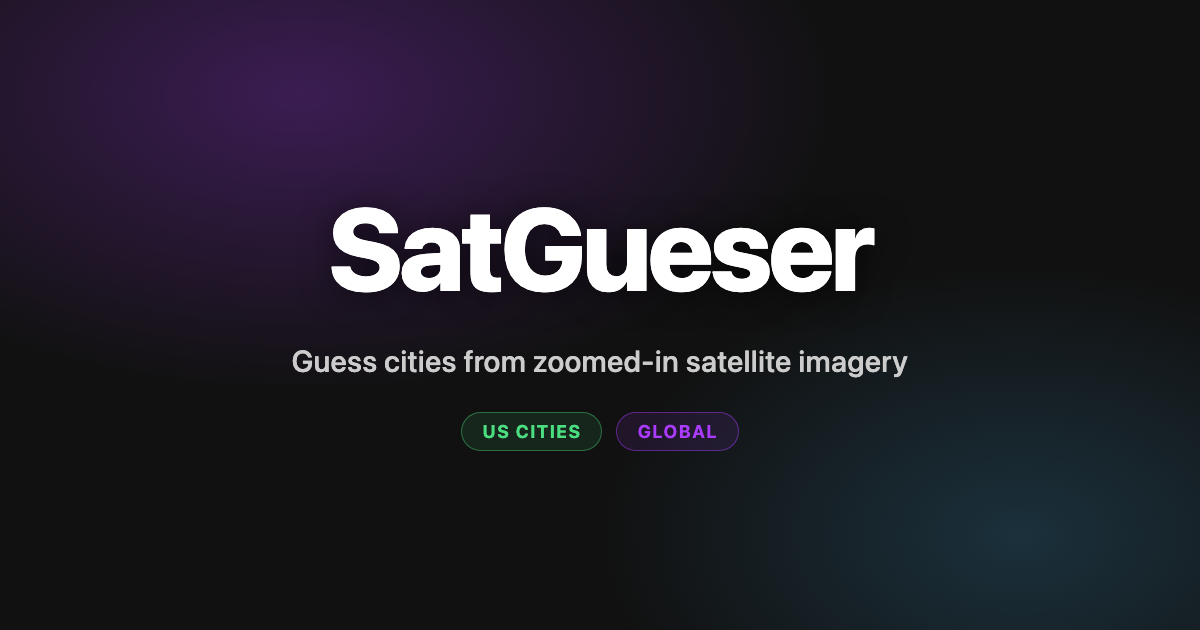
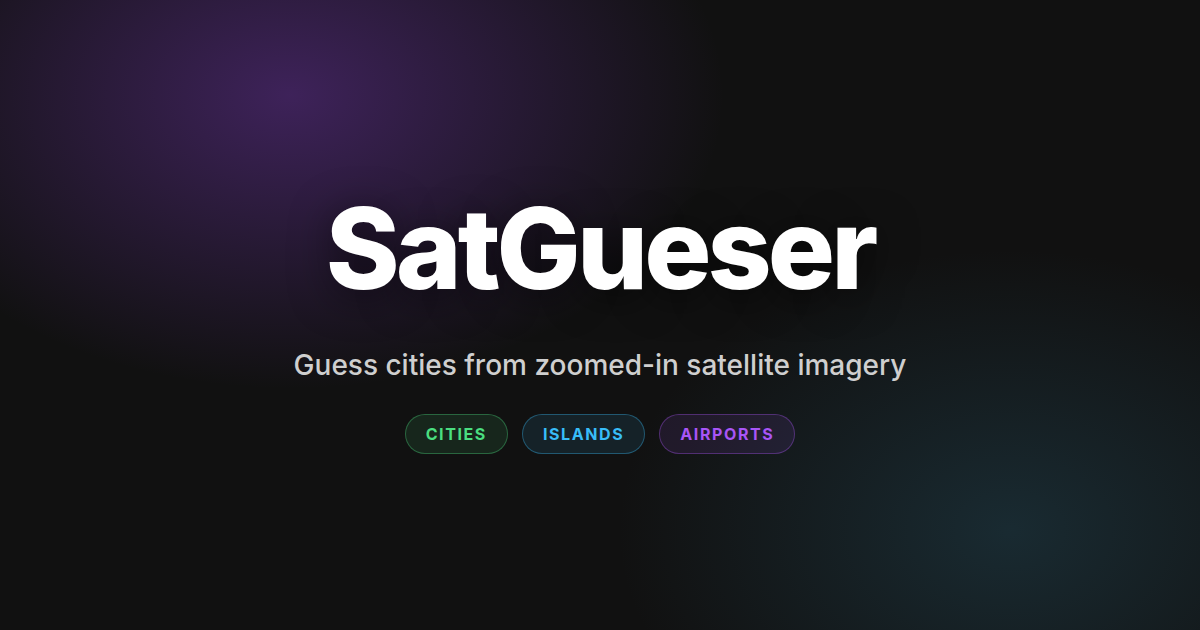
Update share preview image to show Cities, Islands and Airports
The link-preview card still advertised only US Cities and Global. The
?v=2 on the image URL makes chat apps drop their cached copy of the old
card.

Claude-Session: https://claude.ai/code/session_017Lvnwu2ieuZnrzAbceEg86

Changed region(s): [[0.2775, 0.3317, 0.74, 0.4825], [0.2467, 0.5429, 0.7708, 0.6032], [0.3392, 0.6333, 0.6475, 0.7238]]

diff --git a/index.html b/index.html
@@ -11,12 +11,12 @@
     <meta property="og:url" content="https://satgueser.app/" />
     <meta property="og:title" content="SatGueser — Guess the City from Space" />
     <meta property="og:description" content="Guess cities from zoomed-in satellite imagery — compete across US and international cities." />
-    <meta property="og:image" content="https://satgueser.app/og-image.png" />
+    <meta property="og:image" content="https://satgueser.app/og-image.png?v=2" />
 
     <meta name="twitter:card" content="summary_large_image" />
     <meta name="twitter:title" content="SatGueser — Guess the City from Space" />
     <meta name="twitter:description" content="Guess cities from zoomed-in satellite imagery — compete across US and international cities." />
-    <meta name="twitter:image" content="https://satgueser.app/og-image.png" />
+    <meta name="twitter:image" content="https://satgueser.app/og-image.png?v=2" />
   </head>
   <body>
     <div id="root"></div>
